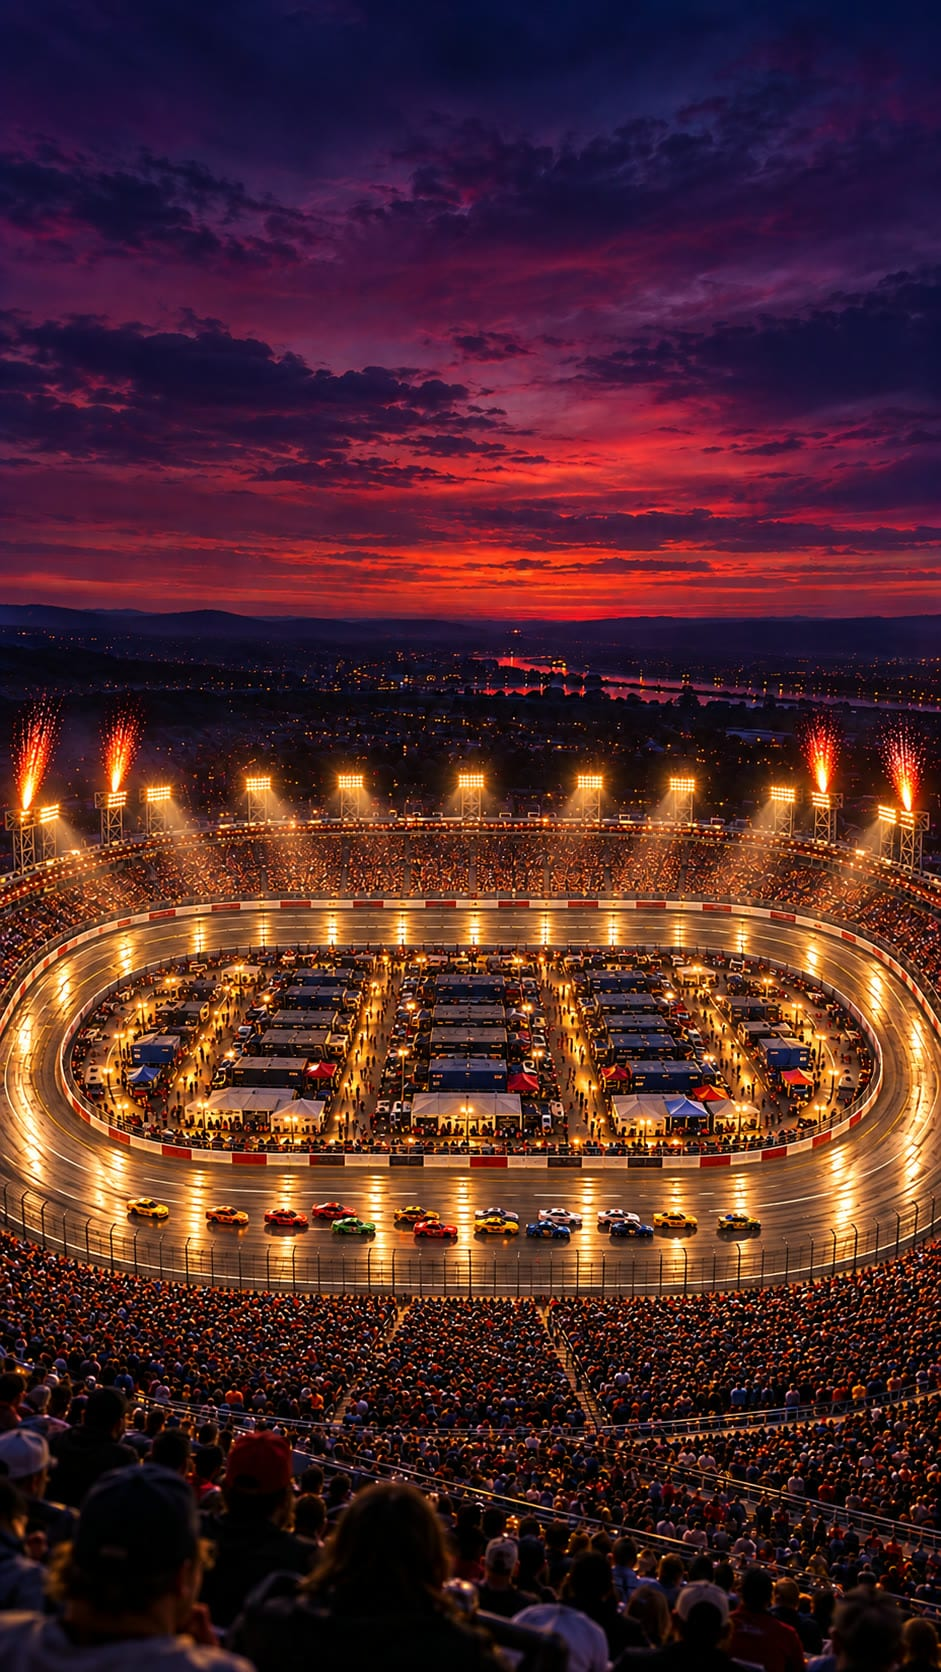
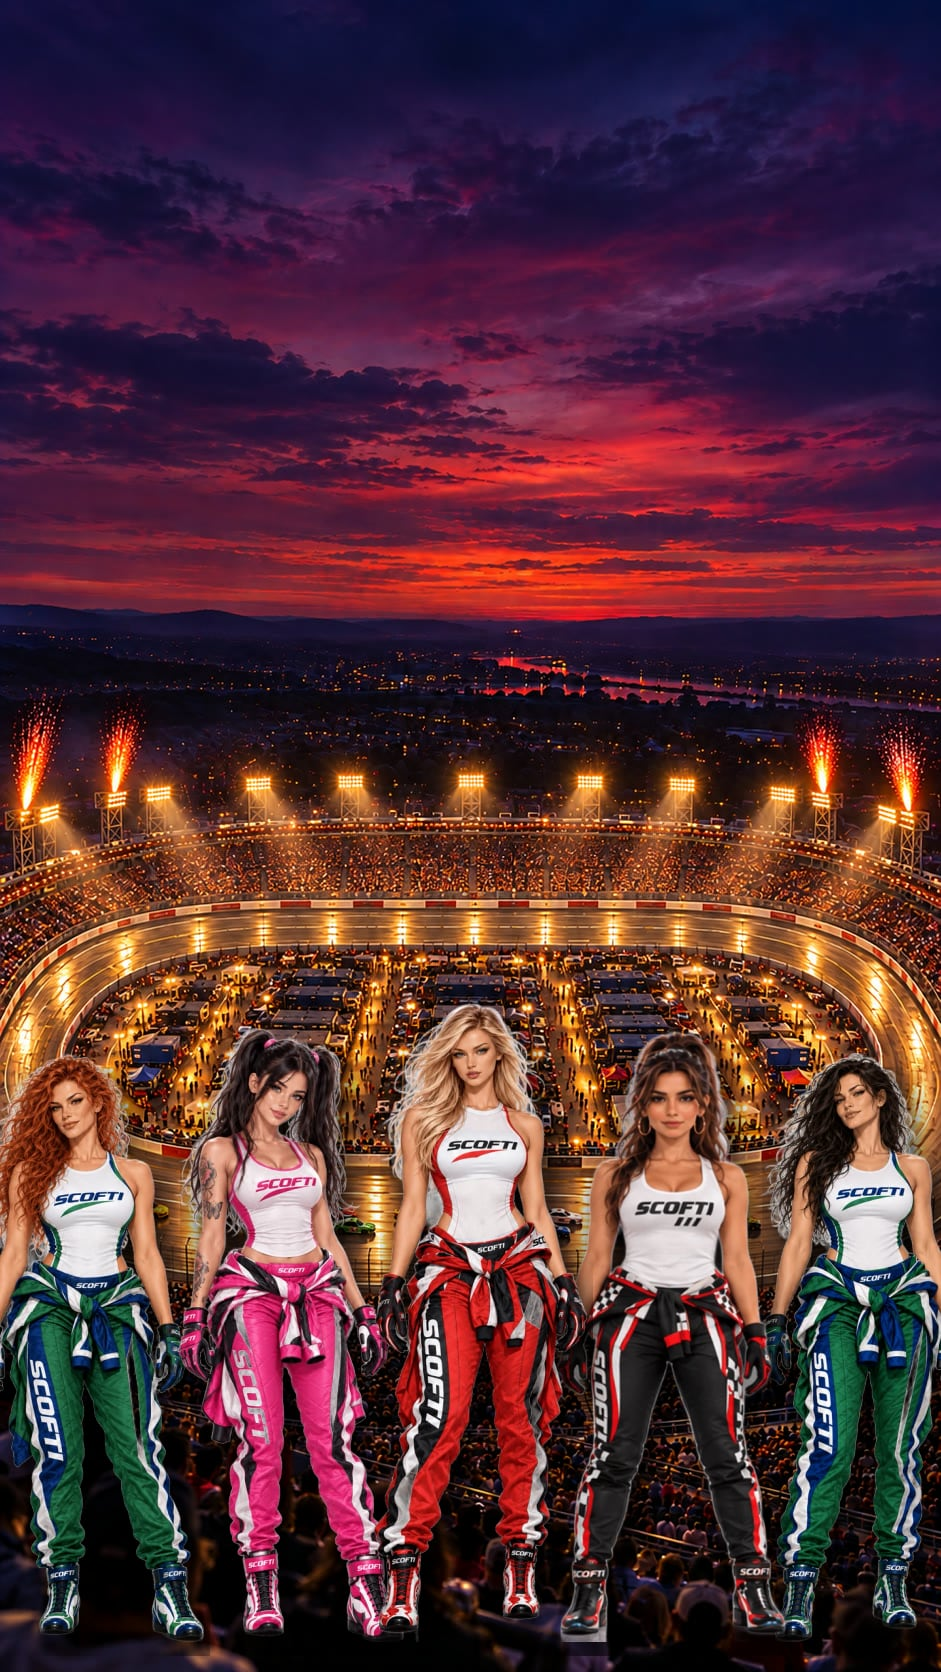
The covers show the drivers: all five lined up across the bottom
- cover-portrait.jpg (the arcade shelf): the top third stays plain sky for the shelf's title
- cover.jpg (shares): the five in front of the stadium
- art/make-covers.mjs builds both from the title art and the drivers' cutouts

Changed region(s): [[0.0, 0.5909, 1.0, 0.9952]]

diff --git a/ASSETS.md b/ASSETS.md
@@ -5,7 +5,7 @@ Everything ships with the game; nothing loads from other sites.
 ## art
 - **Car models** (`public/models/car-*.glb`): Meshy, made from Michael's car sheets (`art/reference/`), lettering repainted by `art/meshy/fix-lettering.mjs`. The car pictures in `public/img/cars/` are from the same sheets.
 - **Drivers** (`public/img/drivers/`): cut from Michael's character sheets (`raven-sheet.png`, `reba-sheet.png`, `lynx-sheet.png`, `maia-sheet.png`, `paige-sheet.png`, and the solo shots `paige-solo.png`, `reba-solo.png`, `lynx-solo.png`, `maia-solo.png`); full-body pictures cut out of the sheets (background removed).
-- **Title art and covers** (`public/img/welcome-*.jpg`, `cover.jpg`, `cover-portrait.jpg`): Michael's.
+- **Title art** (`public/img/welcome-*.jpg`): Michael's. **Covers** (`cover.jpg`, `cover-portrait.jpg`): the title art with the drivers lined up across the bottom, made by `art/make-covers.mjs` (run it again when a driver's picture changes).
 - **Big-screen ads** (`public/img/promo/`): art from Scofti's own games (Offroad, Winter Games, Sloth Splash, Void Signal) and the ScofTV crew faces, copied from scofti-winter-games.
 - Everything else in 3D (the tracks, stands, infield, crews, campers) is built in code.
 
